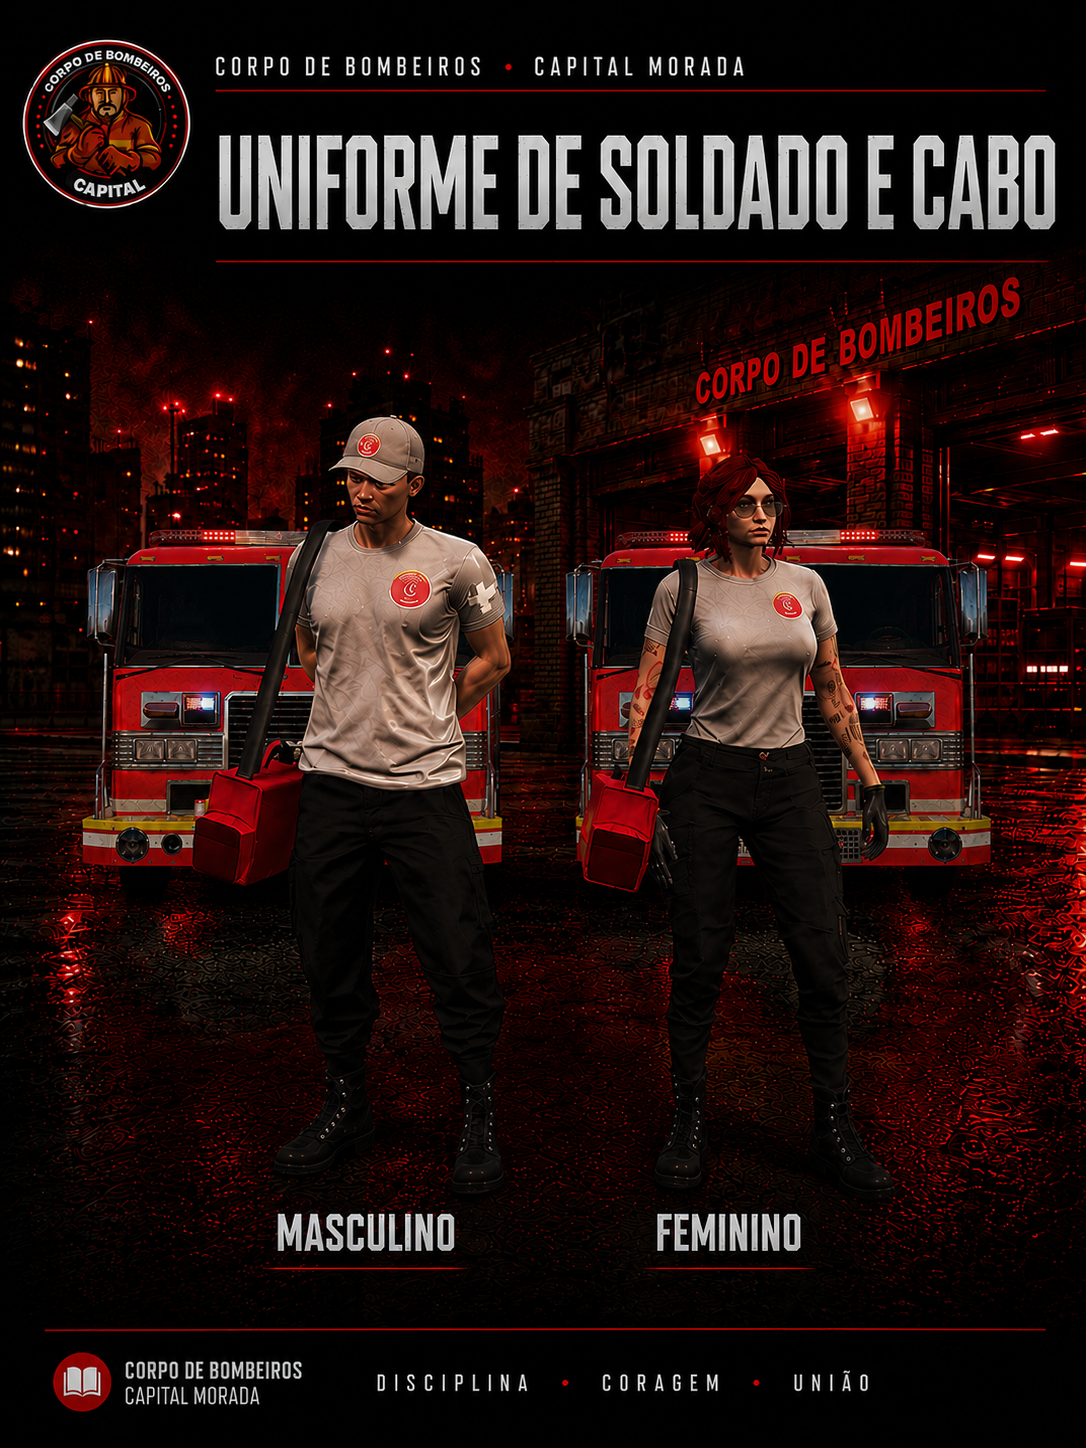
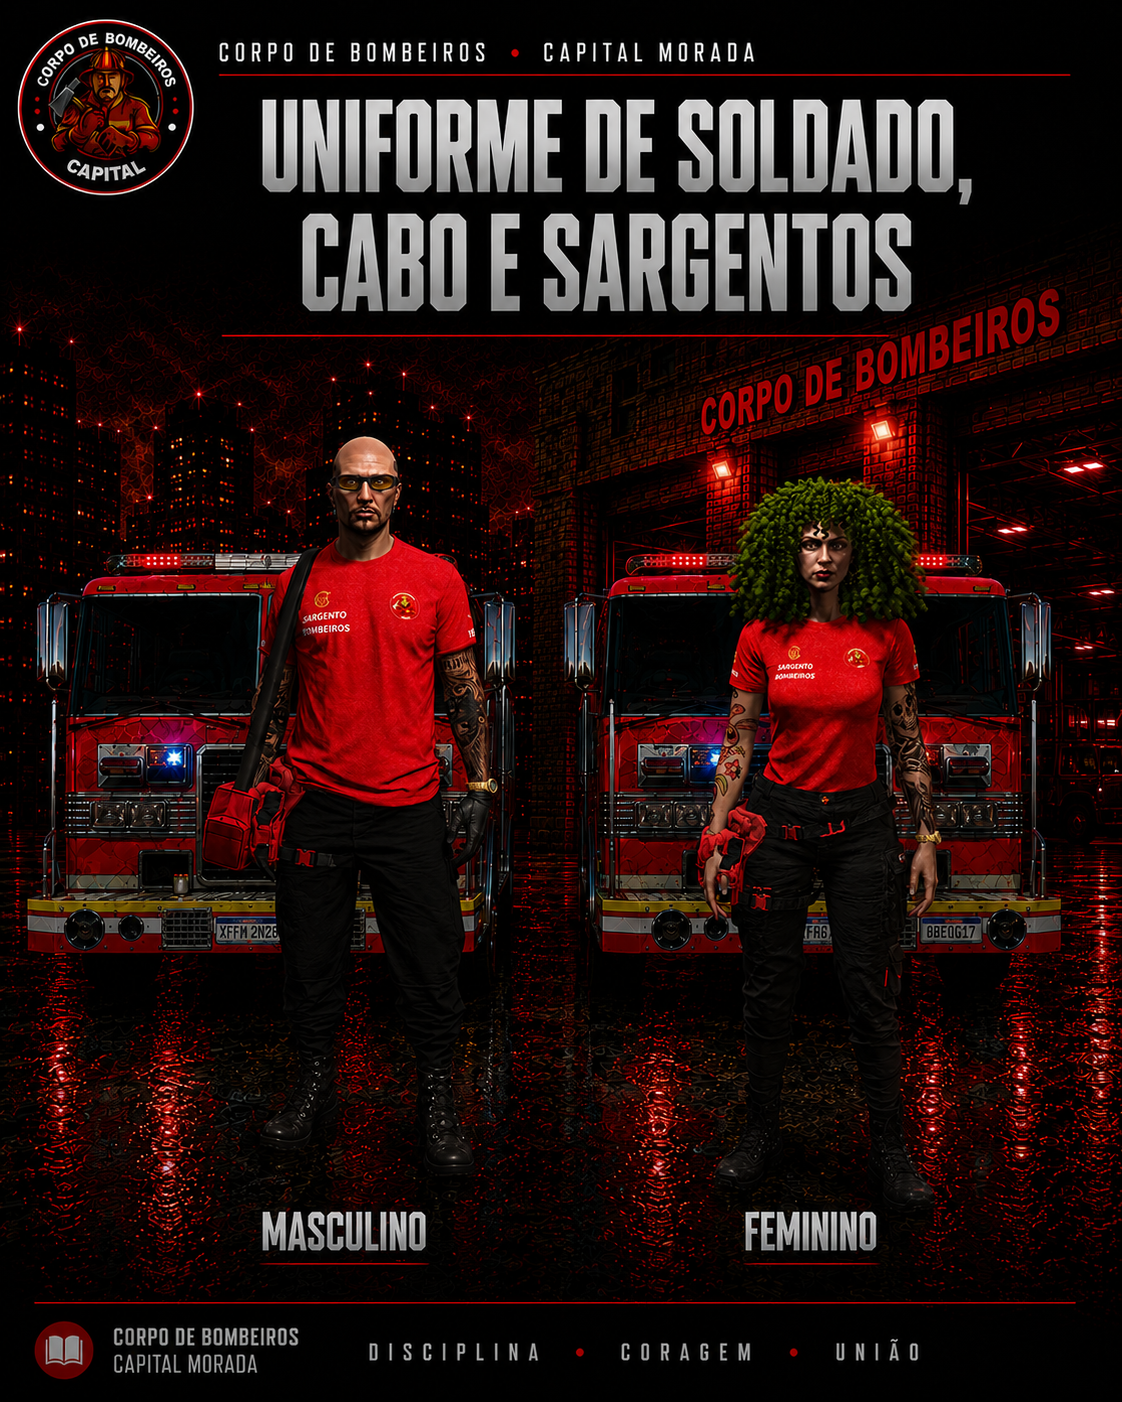
Atualizacao automatica via script

diff --git a/index.html b/index.html
@@ -714,15 +714,15 @@
                 </header>
                 <div class="cards-grid">
                     <div class="card info-card green-card">
-                        <h3>SOLDADO E CABO</h3>
-                        <img src="assets/uniformes/1.png" alt="Soldado e Cabo" data-title="SOLDADO E CABO"
-                            data-desc="<div class='modal-info-item'><strong style='color: #3b82f6;'>Masculino:</strong><p>Mãos - 30<br>Calça - 341 2<br>Sapato - 150<br>Mochila - 163<br>Jaqueta - 796<br>Mascara - 120 (Opcional)<br>Chapéu - 280 (Opcional)<br>Brincos - 1</p></div><div class='modal-info-item'><strong style='color: #ec4899;'>Feminino:</strong><p>Mãos - 44<br>Calça - 471<br>Sapato - 159<br>Camisa - 15<br>Jaqueta - 1047 2<br>Mochila - 197<br>Brincos - 1</p></div>"
+                        <h3>SOLDADO, CABO E SARGENTO</h3>
+                        <img src="assets/uniformes/1.png" alt="Soldado, Cabo e Sargento" data-title="SOLDADO, CABO E SARGENTO"
+                            data-desc="<div class='modal-info-item'><strong style='color: #3b82f6;'>Masculino:</strong><p>Mãos - 30<br>Calça - 341 7<br>Pochete - 288 1<br>Sapato - 150<br>Mochila - 163<br>Jaqueta - 804 7 - SOLDADO<br>Jaqueta - 804 9 - CABO<br>Jaqueta - 804 8 - SARGENTO<br>Mascara - 120 (Opcional)<br>Chapéu - 280 (Opcional)<br>Brincos - 1</p></div><div class='modal-info-item'><strong style='color: #ec4899;'>Feminino:</strong><p>Mãos - 44<br>Calça - 472 0<br>Pochete - 576 1<br>Sapato - 159<br>Camisa - 15<br>Jaqueta - 1039 3 - SOLDADO<br>Jaqueta - 1039 2 - CABO<br>Jaqueta - 1039 4 - SARGENTO<br>Mochila - 197<br>Brincos - 1</p></div>"
                             style="width: 100%; border-radius: 8px; margin-top: 10px; cursor: pointer;">
                     </div>
                     <div class="card info-card blue-card">
-                        <h3>SARGENTO 2, SARGENTO 1 E SUBTENENTE</h3>
-                        <img src="assets/uniformes/2.png" alt="Sargento e Subtenente"
-                            data-title="SARGENTO 2, SARGENTO 1 E SUBTENENTE"
+                        <h3>SUBTENENTE</h3>
+                        <img src="assets/uniformes/2.png" alt="Subtenente"
+                            data-title="SUBTENENTE"
                             data-desc="<div class='modal-info-item'><strong style='color: #3b82f6;'>Masculino:</strong><p>Mãos - 30<br>Calça - 341 2<br>Sapato - 150<br>Camisa - 288 1<br>Jaqueta - 799<br>Brincos - 1</p></div><div class='modal-info-item'><strong style='color: #ec4899;'>Feminino:</strong><p>Mãos - 44<br>Calça - 471<br>Sapato - 159<br>Camisa - 576 2<br>Jaqueta - 1050<br>Brincos - 1</p></div>"
                             style="width: 100%; border-radius: 8px; margin-top: 10px; cursor: pointer;">
                     </div>